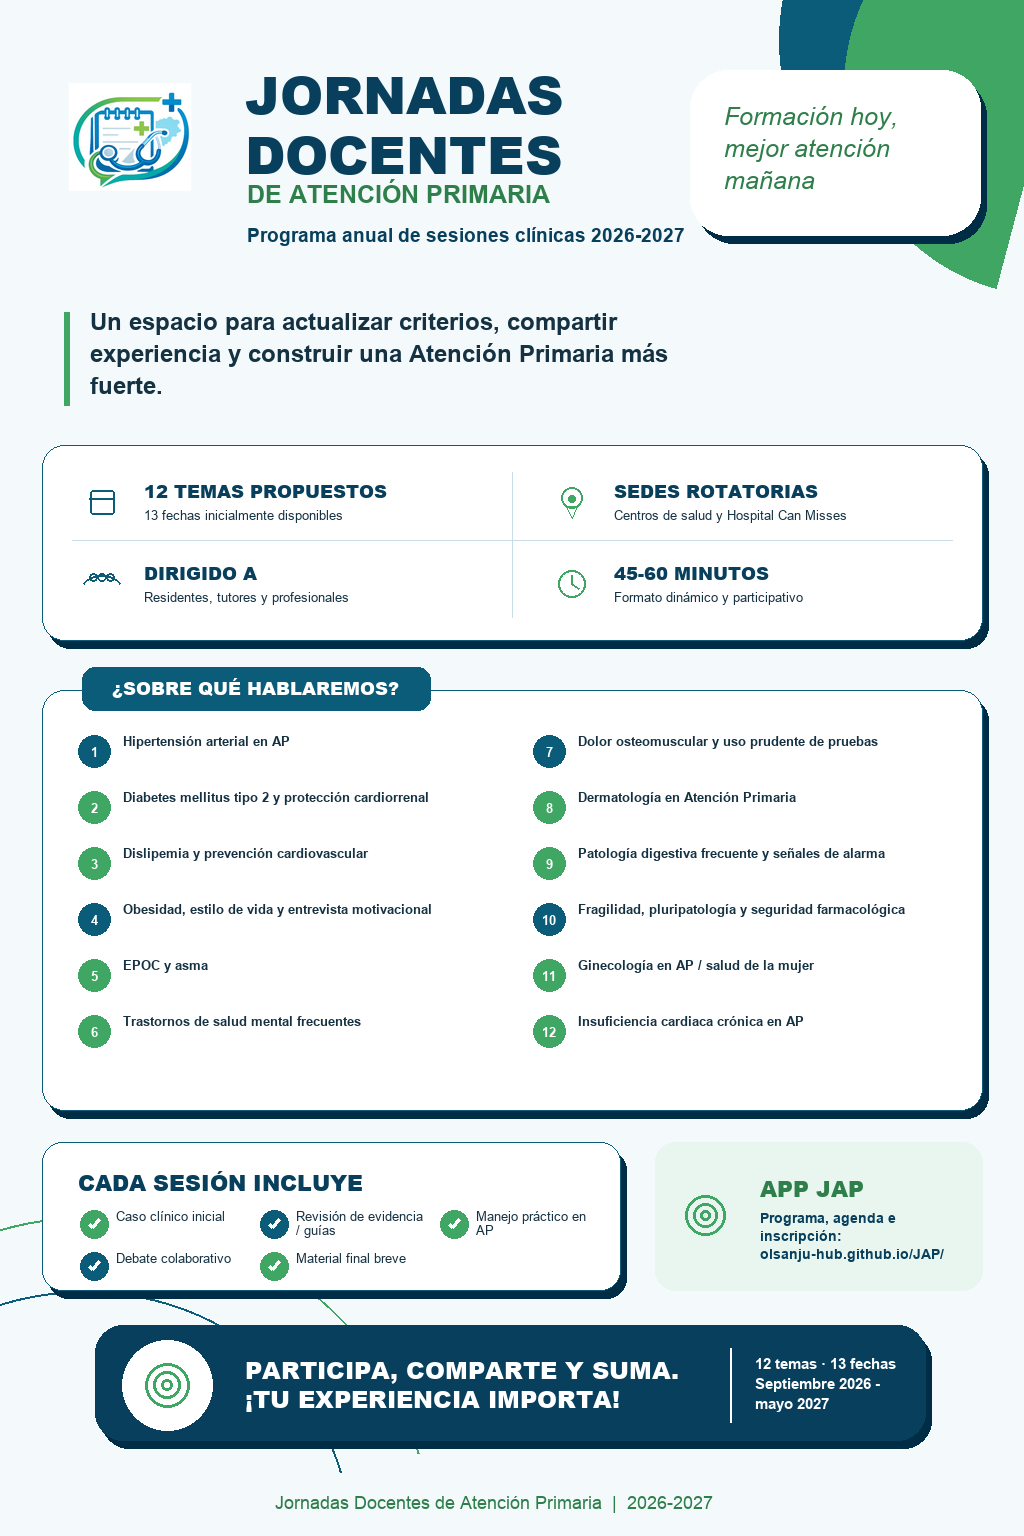
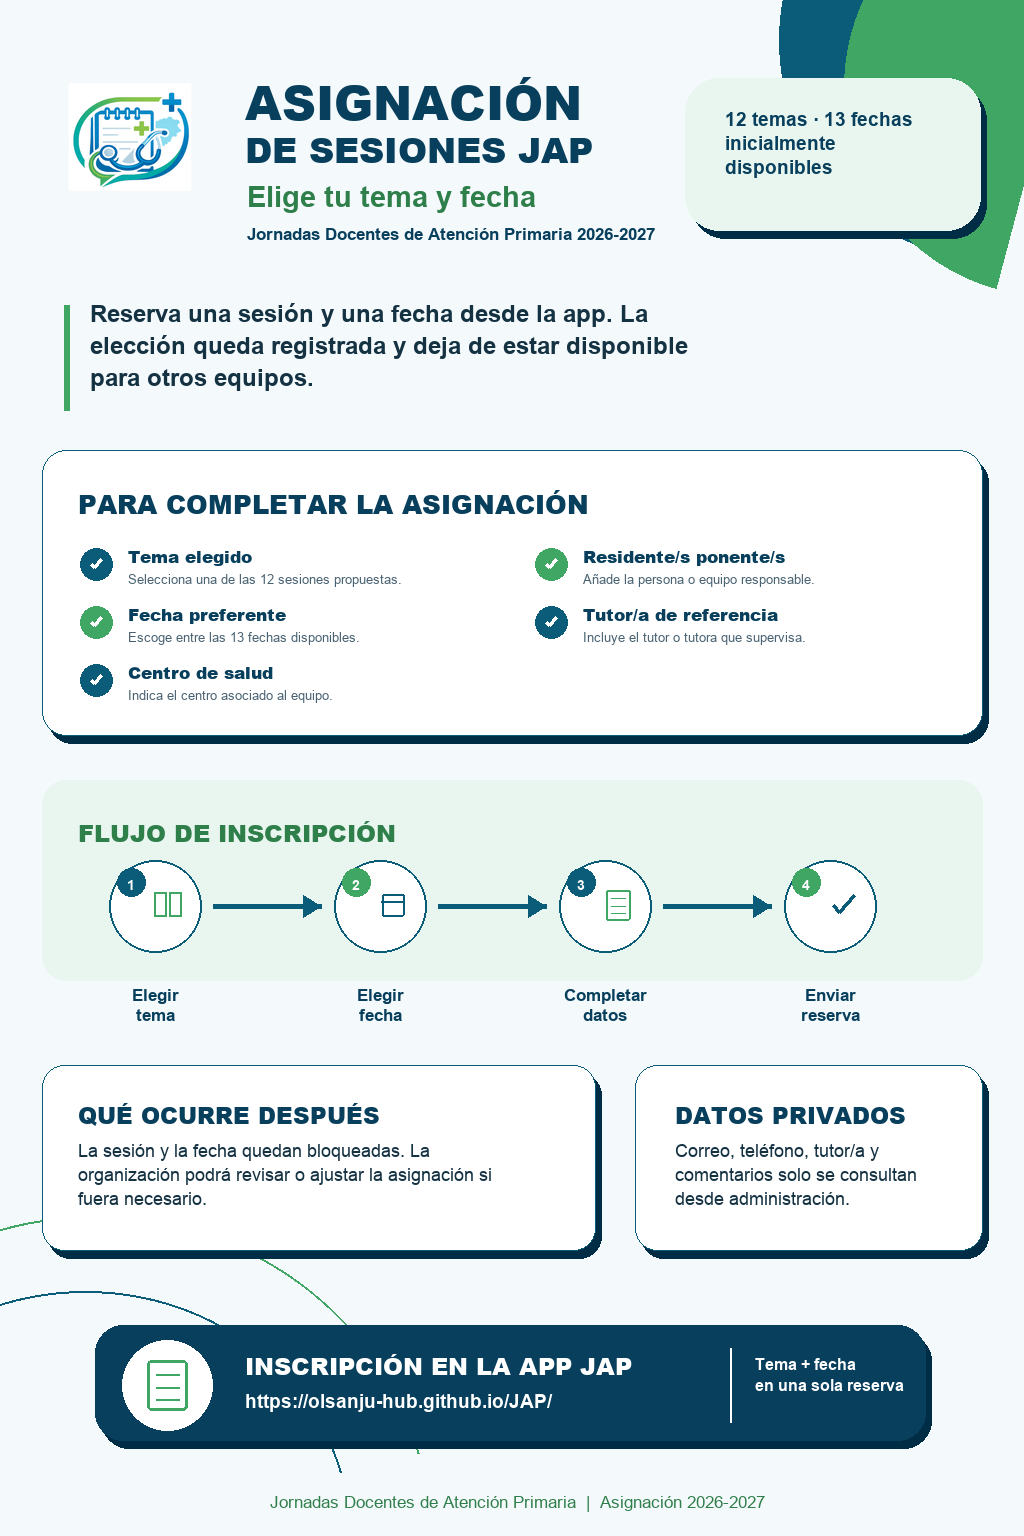
Diferencia piezas promocionales JAP

diff --git a/sw.js b/sw.js
@@ -1,4 +1,4 @@
-const CACHE_NAME = "jap-static-v24";
+const CACHE_NAME = "jap-static-v25";
 
 const APP_ASSETS = [
   "./",
